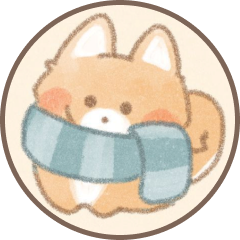
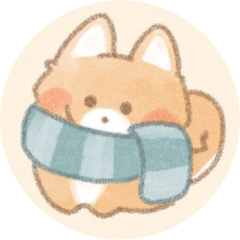
feat: polish create user and shared GUI styling

Changed region(s): [[0.0, 0.0, 1.0, 1.0]]

diff --git a/gui.py b/gui.py
@@ -8,16 +8,27 @@ This keeps the interface safe to import and test without a display server.
 from __future__ import annotations
 
 import argparse
+import os
 from collections.abc import Callable
 from pathlib import Path
 from typing import Any, Protocol
 
 try:  # Keep headless CI able to import the controller without GUI dependencies installed.
+    import tkinter as tk
+
     import customtkinter as ctk
-    from PIL import Image
+    from dotenv import load_dotenv
+    from PIL import Image, ImageTk
 except ImportError:  # pragma: no cover - exercised only on machines without GUI extras
     ctk = None  # type: ignore[assignment]
+    tk = None  # type: ignore[assignment]
     Image = None  # type: ignore[assignment,misc]
+    ImageTk = None  # type: ignore[assignment,misc]
+
+    def load_dotenv(dotenv_path: Any = None) -> None:
+        del dotenv_path
+        return None
+
 
 from client import ClientSession
 from protocol import (
@@ -33,6 +44,7 @@ PINK_LIGHT = "#FCECF5"
 YELLOW = "#FFE79F"
 BLUE = "#BAE7EF"
 INK = "#5C4B41"
+WHITE = "#FFFFFF"
 FONT = "Josefin Sans"
 
 
@@ -109,7 +121,7 @@ def _require_ctk() -> Any:
     return ctk
 
 
-def _load_avatars() -> dict[str, Any]:
+def _load_avatars(size: tuple[int, int] = (120, 120)) -> dict[str, Any]:
     """Load the supplied character PNGs, returning an empty map when unavailable."""
     if ctk is None or Image is None:
         return {}
@@ -119,76 +131,149 @@ def _load_avatars() -> dict[str, Any]:
         path = root / "assets" / f"avatar_{name}.png"
         if path.is_file():
             image = Image.open(path)
-            avatars[name] = ctk.CTkImage(light_image=image, dark_image=image, size=(58, 58))
+            avatars[name] = ctk.CTkImage(light_image=image, dark_image=image, size=size)
     return avatars
+
+
+def _load_avatar_photos(size: tuple[int, int] = (112, 112)) -> dict[str, Any]:
+    """Load avatar photos for Canvas rendering without widget-level image clipping."""
+    if Image is None or ImageTk is None:
+        return {}
+    root = Path(__file__).resolve().parent
+    photos: dict[str, Any] = {}
+    for name in ("cat", "dog", "rabbit"):
+        path = root / "assets" / f"avatar_{name}.png"
+        if path.is_file():
+            image = Image.open(path).convert("RGBA").resize(size)
+            photos[name] = ImageTk.PhotoImage(image)
+    return photos
+
+
+def _load_icons(size: tuple[int, int] = (28, 28)) -> dict[str, Any]:
+    """Load the supplied UI icons as CustomTkinter images."""
+    if ctk is None or Image is None:
+        return {}
+    root = Path(__file__).resolve().parent
+    icons: dict[str, Any] = {}
+    for name in ("friends", "community", "chat", "notification", "logout"):
+        path = root / "assets" / f"icon_{name}.png"
+        if path.is_file():
+            image = Image.open(path).convert("RGBA")
+            icons[name] = ctk.CTkImage(light_image=image, dark_image=image, size=size)
+    return icons
 
 
 class LoginView:
     """Reusable Create User card for R3, styled after the supplied design."""
 
-    def __init__(self, parent: Any, on_connect: Callable[[str, str, str], None]) -> None:
+    def __init__(
+        self,
+        parent: Any,
+        on_connect: Callable[[str, str, str], None],
+        host: str = "127.0.0.1",
+        port: str = "5000",
+    ) -> None:
         ui = _require_ctk()
+        if tk is None:
+            raise RuntimeError("This Python installation does not include Tk support")
         self.frame = ui.CTkFrame(
             parent,
-            fg_color=BACKGROUND,
+            fg_color=WHITE,
             border_color=INK,
-            border_width=2,
+            border_width=3,
             corner_radius=16,
+            width=600,
+            height=560,
         )
-        self.frame.grid_columnconfigure(1, weight=1)
-        self.avatars = _load_avatars()
-        heading = ui.CTkLabel(
+        self.frame.grid_columnconfigure(0, weight=1)
+        self.frame.grid_propagate(False)
+        self.host = host
+        self.port = port
+        self.avatar_photos = _load_avatar_photos()
+        self.header = tk.Canvas(
             self.frame,
-            text="Create User",
+            height=68,
+            bg=BACKGROUND,
+            highlightthickness=0,
+            bd=0,
+        )
+        self.header.grid(row=0, column=0, columnspan=2, padx=0, pady=0, sticky="ew")
+        self.header.bind("<Configure>", self._draw_header)
+        ui.CTkLabel(
+            self.frame, text="Name", font=(FONT, 24, "bold"), text_color=INK, anchor="w"
+        ).grid(row=1, column=0, padx=60, pady=(24, 8), sticky="w")
+        self.username = ui.CTkEntry(
+            self.frame,
+            placeholder_text="Username",
+            border_color=PINK,
+            border_width=2,
+            fg_color="white",
+            height=42,
+            font=(FONT, 15),
+        )
+        self.username.grid(row=2, column=0, padx=54, pady=(0, 22), sticky="ew")
+        ui.CTkLabel(
+            self.frame,
+            text="Choose your character",
             font=(FONT, 24, "bold"),
             text_color=INK,
-            fg_color=PINK,
-            corner_radius=14,
-        )
-        heading.grid(row=0, column=0, columnspan=2, padx=0, pady=0, sticky="ew")
-        self.username = self._entry("Name", "", 1)
-        ui.CTkLabel(self.frame, text="Choose your character", text_color=INK, anchor="w").grid(
-            row=2, column=0, columnspan=2, padx=28, pady=(12, 2), sticky="w"
-        )
+            anchor="w",
+        ).grid(row=3, column=0, padx=54, pady=(0, 14), sticky="w")
         self.character = "rabbit"
         self.character_buttons: dict[str, Any] = {}
         character_row = ui.CTkFrame(self.frame, fg_color="transparent")
-        character_row.grid(row=3, column=0, columnspan=2, padx=28, pady=(2, 12), sticky="ew")
+        character_row.grid(row=4, column=0, padx=54, pady=(10, 10), sticky="ew")
+        character_row.grid_columnconfigure((0, 1, 2), weight=1)
         for index, name in enumerate(("cat", "dog", "rabbit")):
-            button = ui.CTkButton(
+            canvas = tk.Canvas(
                 character_row,
-                text=name.title(),
-                image=self.avatars.get(name),
-                width=78,
-                height=62,
-                fg_color=PINK_LIGHT if name == self.character else "white",
-                hover_color="#F7D4E1",
-                text_color=INK,
-                command=lambda selected=name: self._choose_character(selected),
+                width=120,
+                height=120,
+                bg=WHITE,
+                highlightthickness=0,
+                bd=0,
             )
-            button.grid(row=0, column=index, padx=4, sticky="ew")
-            self.character_buttons[name] = button
-        connection_label = ui.CTkLabel(
-            self.frame, text="Server connection", text_color=INK, anchor="w"
-        )
-        connection_label.grid(row=4, column=0, columnspan=2, padx=28, pady=(2, 2), sticky="w")
-        self.host = self._entry("Host", "127.0.0.1", 5)
-        self.port = self._entry("Port", "5000", 6)
+            canvas.grid(row=0, column=index, padx=3, sticky="ew")
+            self._draw_avatar(canvas, name)
+            canvas.bind(
+                "<Button-1>", lambda _event, selected=name: self._choose_character(selected)
+            )
+            self.character_buttons[name] = canvas
+        self.selection_line = ui.CTkFrame(self.frame, fg_color=INK, height=4, corner_radius=2)
+        self.selection_line.grid(row=5, column=0, padx=56, pady=(10, 20), sticky="w")
         self.error = ui.CTkLabel(self.frame, text="", text_color="#C64B68", wraplength=300)
-        self.error.grid(row=7, column=0, columnspan=2, padx=28, pady=(10, 4))
+        self.error.grid(row=6, column=0, padx=54, pady=(1, 1))
         ui.CTkButton(
             self.frame,
             text="Create",
             fg_color=PINK,
             hover_color="#DF6D98",
-            text_color=INK,
-            command=lambda: on_connect(self.host.get(), self.port.get(), self.username.get()),
-        ).grid(row=8, column=0, columnspan=2, padx=28, pady=(10, 24), sticky="ew")
+            text_color="white",
+            height=44,
+            font=(FONT, 24, "bold"),
+            command=lambda: on_connect(self.host, self.port, self.username.get()),
+        ).grid(row=7, column=0, padx=54, pady=(24, 16), sticky="ew")
 
     def _choose_character(self, character: str) -> None:
         self.character = character
-        for name, button in self.character_buttons.items():
-            button.configure(fg_color=PINK_LIGHT if name == character else "white")
+        for name, canvas in self.character_buttons.items():
+            self._draw_avatar(canvas, name)
+
+    def _draw_avatar(self, canvas: Any, name: str) -> None:
+        canvas.delete("all")
+        selected = name == self.character
+        canvas.create_oval(
+            2,
+            2,
+            118,
+            118,
+            fill=PINK_LIGHT if selected else BACKGROUND,
+            outline=INK if selected else "",
+            width=3,
+        )
+        photo = self.avatar_photos.get(name)
+        if photo:
+            canvas.create_image(60, 60, image=photo)
 
     def _entry(self, label: str, value: str, row: int) -> Any:
         ui = _require_ctk()
@@ -201,6 +286,44 @@ class LoginView:
         entry.grid(row=row, column=1, padx=(0, 28), pady=8, sticky="ew")
         return entry
 
+    def _draw_header(self, _event: Any = None) -> None:
+        """Draw a pink header with rounded top corners and a straight bottom edge."""
+        width = max(self.header.winfo_width(), 10)
+        height = max(self.header.winfo_height(), 10)
+        self.header.delete("all")
+
+        def draw_top(fill: str, x: int, y: int, right: int, bottom: int, radius: int) -> None:
+            self.header.create_rectangle(x, y + radius, right, bottom, fill=fill, outline=fill)
+            self.header.create_rectangle(
+                x + radius, y, right - radius, bottom, fill=fill, outline=fill
+            )
+            self.header.create_arc(
+                x, y, x + radius * 2, y + radius * 2, start=90, extent=90, fill=fill, outline=fill
+            )
+            self.header.create_arc(
+                right - radius * 2,
+                y,
+                right,
+                y + radius * 2,
+                start=0,
+                extent=90,
+                fill=fill,
+                outline=fill,
+            )
+
+        radius = min(18, width // 8, height // 2)
+        draw_top(INK, 0, 0, width, height, radius)
+        inset = 2
+        draw_top(PINK, inset, inset, width - inset, height - inset, max(radius - inset, 1))
+        self.header.create_line(0, height - 1, width, height - 1, fill=INK, width=2)
+        self.header.create_text(
+            width // 2,
+            height // 2 - 2,
+            text="Create User",
+            fill=INK,
+            font=(FONT, 32, "bold"),
+        )
+
     def show_error(self, message: str | None) -> None:
         self.error.configure(text=message or "")
 
@@ -211,7 +334,14 @@ class AnnouncementBanner:
     def __init__(self, parent: Any) -> None:
         ui = _require_ctk()
         self.frame = ui.CTkFrame(parent, fg_color=YELLOW)
-        self.label = ui.CTkLabel(self.frame, text="", text_color=INK, anchor="w")
+        self.label = ui.CTkLabel(
+            self.frame,
+            text="",
+            image=_load_icons().get("notification"),
+            compound="left",
+            text_color=INK,
+            anchor="w",
+        )
         self.label.pack(side="left", fill="x", expand=True, padx=14, pady=7)
         ui.CTkButton(self.frame, text="Hide", width=55, command=self.frame.grid_remove).pack(
             side="right", padx=8, pady=4
@@ -230,13 +360,16 @@ class SidebarPanel:
         self.frame = ui.CTkFrame(parent, fg_color="transparent")
         self.on_chat = on_chat
         self.avatar = _load_avatars().get("rabbit")
+        self.icons = _load_icons()
         self.friends_card = ui.CTkFrame(
             self.frame, fg_color=BACKGROUND, border_color=INK, border_width=2, corner_radius=14
         )
         self.friends_card.pack(fill="both", expand=True)
         friends_heading = ui.CTkLabel(
             self.friends_card,
-            text="☻  Friends",
+            text="Friends",
+            image=self.icons.get("friends"),
+            compound="left",
             font=(FONT, 20, "bold"),
             text_color=INK,
             fg_color=YELLOW,
@@ -251,7 +384,9 @@ class SidebarPanel:
         self.community_card.pack(fill="both", expand=True, pady=(14, 0))
         community_heading = ui.CTkLabel(
             self.community_card,
-            text="♣  Community",
+            text="Community",
+            image=self.icons.get("community"),
+            compound="left",
             font=(FONT, 18, "bold"),
             text_color=INK,
             fg_color=BLUE,
@@ -346,6 +481,8 @@ class ChatRoomTab:
         ui.CTkLabel(
             self.header,
             text=f"▤  {room_name}",
+            image=_load_icons().get("chat"),
+            compound="left",
             font=(FONT, 20, "bold"),
             text_color=INK,
             anchor="w",
@@ -403,7 +540,9 @@ class MainChatWindow:
         self.title.grid(row=0, column=0, sticky="w", padx=18, pady=(14, 6))
         self.logout = ui.CTkButton(
             self.frame,
-            text="⇥\nLogout",
+            text="Logout",
+            image=_load_icons().get("logout"),
+            compound="top",
             width=70,
             height=58,
             fg_color="#FFC8B7",
@@ -442,7 +581,15 @@ class MainChatWindow:
 class ChatApplication:
     """Application composition root and Tk ``after`` event poller."""
 
-    def __init__(self, session: ClientSession | None = None) -> None:
+    def __init__(
+        self,
+        session: ClientSession | None = None,
+        host: str | None = None,
+        port: str | None = None,
+    ) -> None:
+        load_dotenv(dotenv_path=Path(__file__).resolve().with_name(".env"))
+        host = host or os.getenv("CHAT_SERVER_HOST", "127.0.0.1")
+        port = port or os.getenv("CHAT_SERVER_PORT", "5000")
         ui = _require_ctk()
         ui.set_appearance_mode("light")
         self.root = ui.CTk()
@@ -451,7 +598,7 @@ class ChatApplication:
         self.root.geometry("1080x700")
         self.root.configure(fg_color=BACKGROUND)
         self.controller = GuiController(session or ClientSession(), self._refresh)
-        self.login = LoginView(self.root, self._connect)
+        self.login = LoginView(self.root, self._connect, host=host, port=port)
         self.login.frame.place(relx=0.5, rely=0.5, anchor="center")
         self.main: MainChatWindow | None = None
         self.root.protocol("WM_DELETE_WINDOW", self._close)
@@ -488,8 +635,10 @@ class ChatApplication:
 
 def main() -> None:
     parser = argparse.ArgumentParser(description="Simple Chat Application GUI")
-    parser.parse_args()
-    ChatApplication().run()
+    parser.add_argument("--host", default=None, help="Override CHAT_SERVER_HOST from .env")
+    parser.add_argument("--port", default=None, help="Override CHAT_SERVER_PORT from .env")
+    args = parser.parse_args()
+    ChatApplication(host=args.host, port=args.port).run()
 
 
 if __name__ == "__main__":
